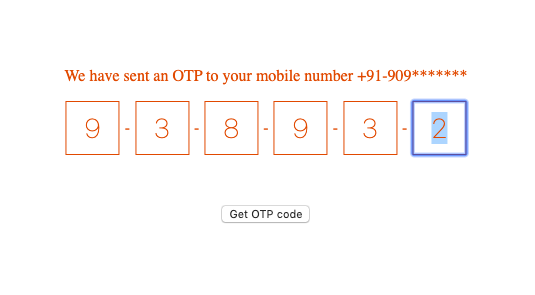
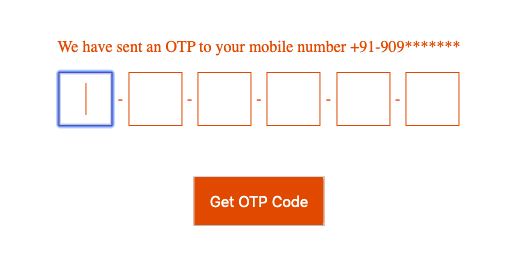
get otp button changed

Changed region(s): [[0.093, 0.1562, 0.8992, 0.5625], [0.3721, 0.6875, 0.6512, 0.9062]]

diff --git a/index.html b/index.html
@@ -19,6 +19,13 @@
             color: #d35400;
             text-align: center;
         }
+        button {
+            background: #d35400;
+            margin-top: 50px;
+            color: white;
+            padding: 15px;
+            font-size: 15px;
+        }
     </style>
     <link rel="stylesheet" href="quickotp.css">
 </head>
@@ -27,7 +34,7 @@
     <div class="otp-container">
         <p>We have sent an OTP to your mobile number +91-909*******</p>
         <div id="otp-holder"></div>
-        <button onclick="getOtp()" style="margin-top:50px">Get OTP code</button>
+        <button onclick="getOtp()">Get OTP Code</button>
     </div>
     <script src="quickotp.js"></script>
     <script>
